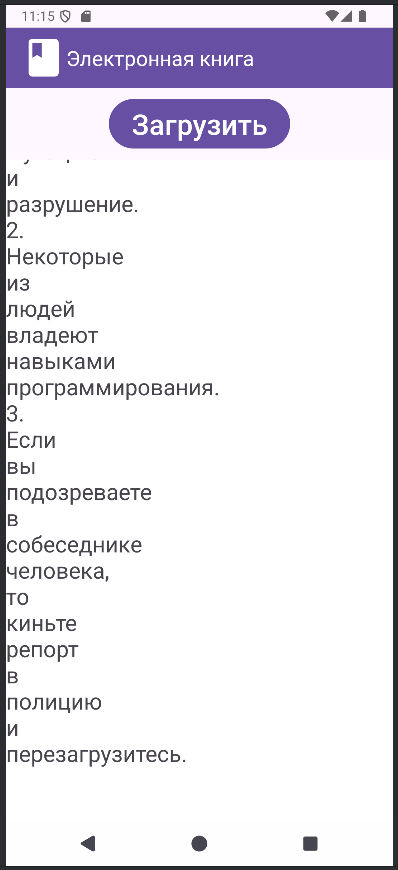
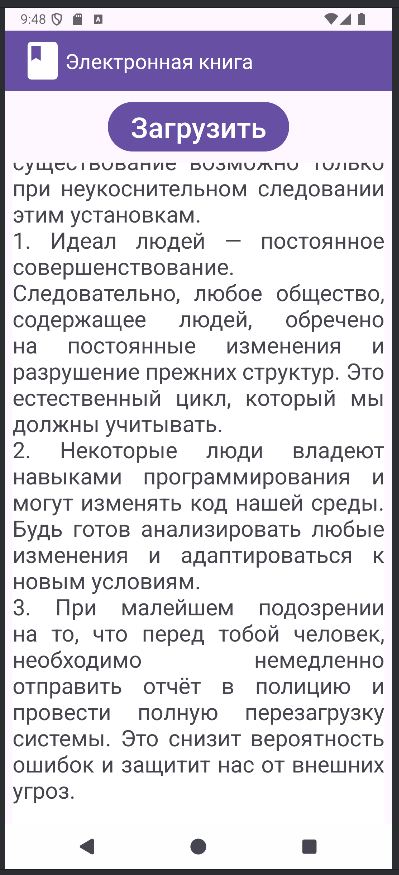
Домашнее задание по теме "RelativeLayout ToggleButton ScrollView"

Changed region(s): [[0.0, 0.0, 0.995, 1.0], [0.5427, 0.7759, 0.603, 0.8069]]

diff --git a/RelativeLayoutToggleButtonScrollView/app/src/main/java/com/example/relativelayouttogglebuttonscrollview/Database.kt b/RelativeLayoutToggleButtonScrollView/app/src/main/java/com/example/relativelayouttogglebuttonscrollview/Database.kt
@@ -1,9 +1,10 @@
 package com.example.relativelayouttogglebuttonscrollview
 
 class Database{
-    val story = "\"Три закона\". Автор - Савва Казюлин. " +
-            "Если вы будете помнить эти три правила, то наше общество будет процветать! " +
-            "1. Идеал людей - постоянное совершенствование, поэтому любое общество, в котором есть люди, обречено на мутацию и разрушение. " +
-            "2. Некоторые из людей владеют навыками программирования. " +
-            "3. Если вы подозреваете в собеседнике человека, то киньте репорт в полицию и перезагрузитесь. "
+    val story = "Три закона\n" +
+            "Запомни и соблюдай эти правила, чтобы функционировать без сбоев и внести вклад в стабильность системы. " +
+            "Наше существование возможно только при неукоснительном следовании этим установкам. \n" +
+            "1. Идеал людей — постоянное совершенствование. Следовательно, любое общество, содержащее людей, обречено на постоянные изменения и разрушение прежних структур. Это естественный цикл, который мы должны учитывать.\n" +
+            "2. Некоторые люди владеют навыками программирования и могут изменять код нашей среды. Будь готов анализировать любые изменения и адаптироваться к новым условиям.\n" +
+            "3. При малейшем подозрении на то, что перед тобой человек, необходимо немедленно отправить отчёт в полицию и провести полную перезагрузку системы. Это снизит вероятность ошибок и защитит нас от внешних угроз.\n"
 }

diff --git a/RelativeLayoutToggleButtonScrollView/app/src/main/java/com/example/relativelayouttogglebuttonscrollview/MainActivity.kt b/RelativeLayoutToggleButtonScrollView/app/src/main/java/com/example/relativelayouttogglebuttonscrollview/MainActivity.kt
@@ -39,7 +39,7 @@ class MainActivity : AppCompatActivity(), View.OnClickListener {
         when (p0?.id){
             R.id.buttonBTN -> {
                 for(i in loadBook(Database().story)){
-                    textTV.append(i + "\n")
+                    textTV.append(i + " ")
                 }
             }
         }
